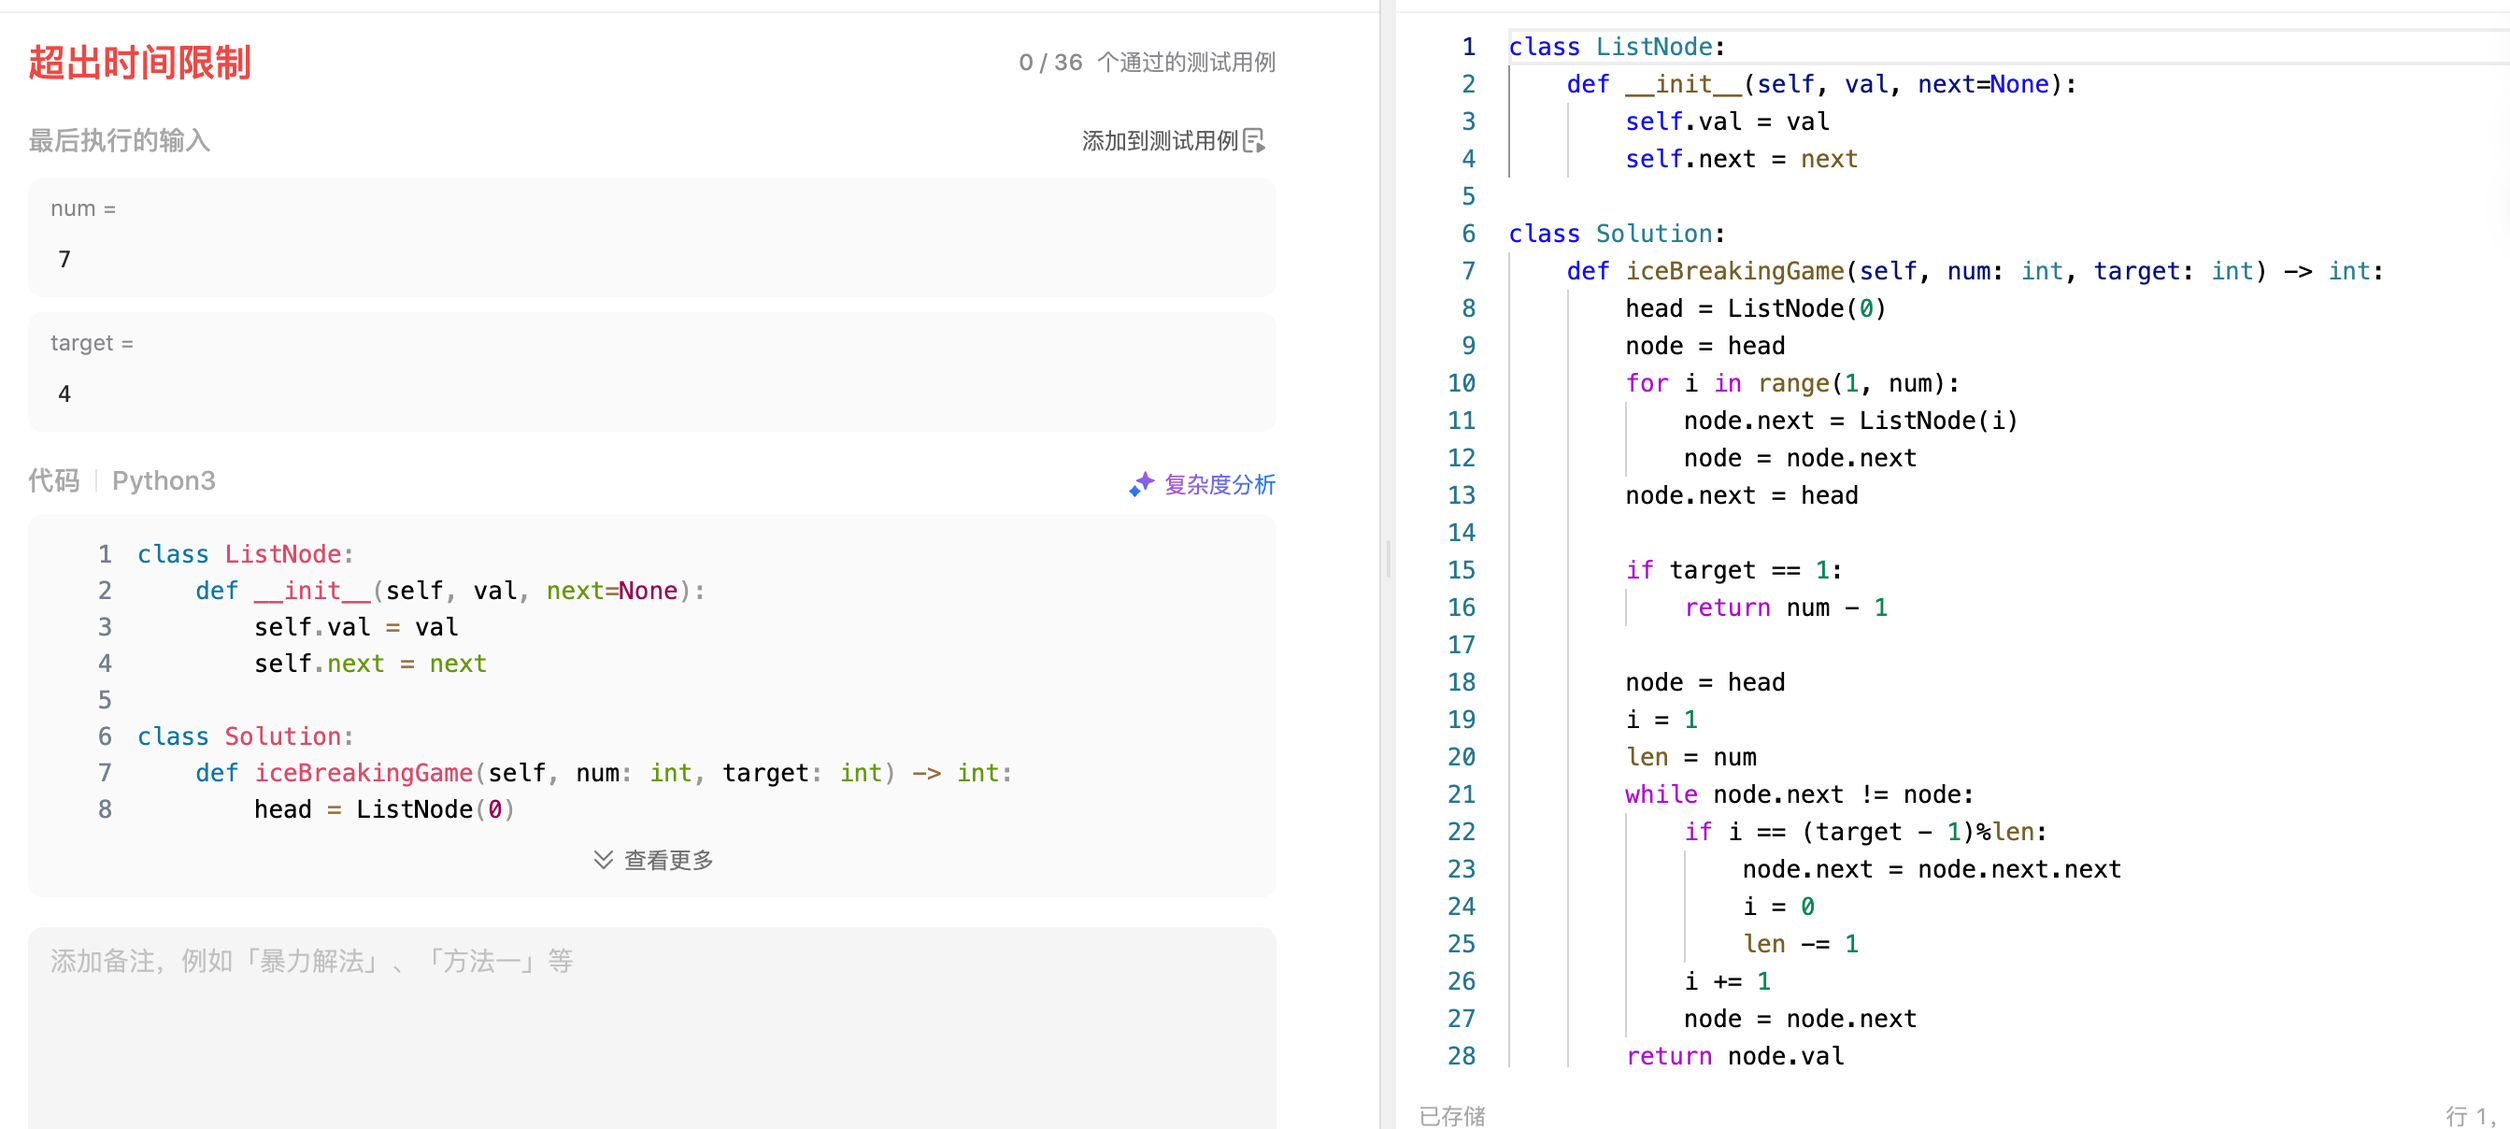
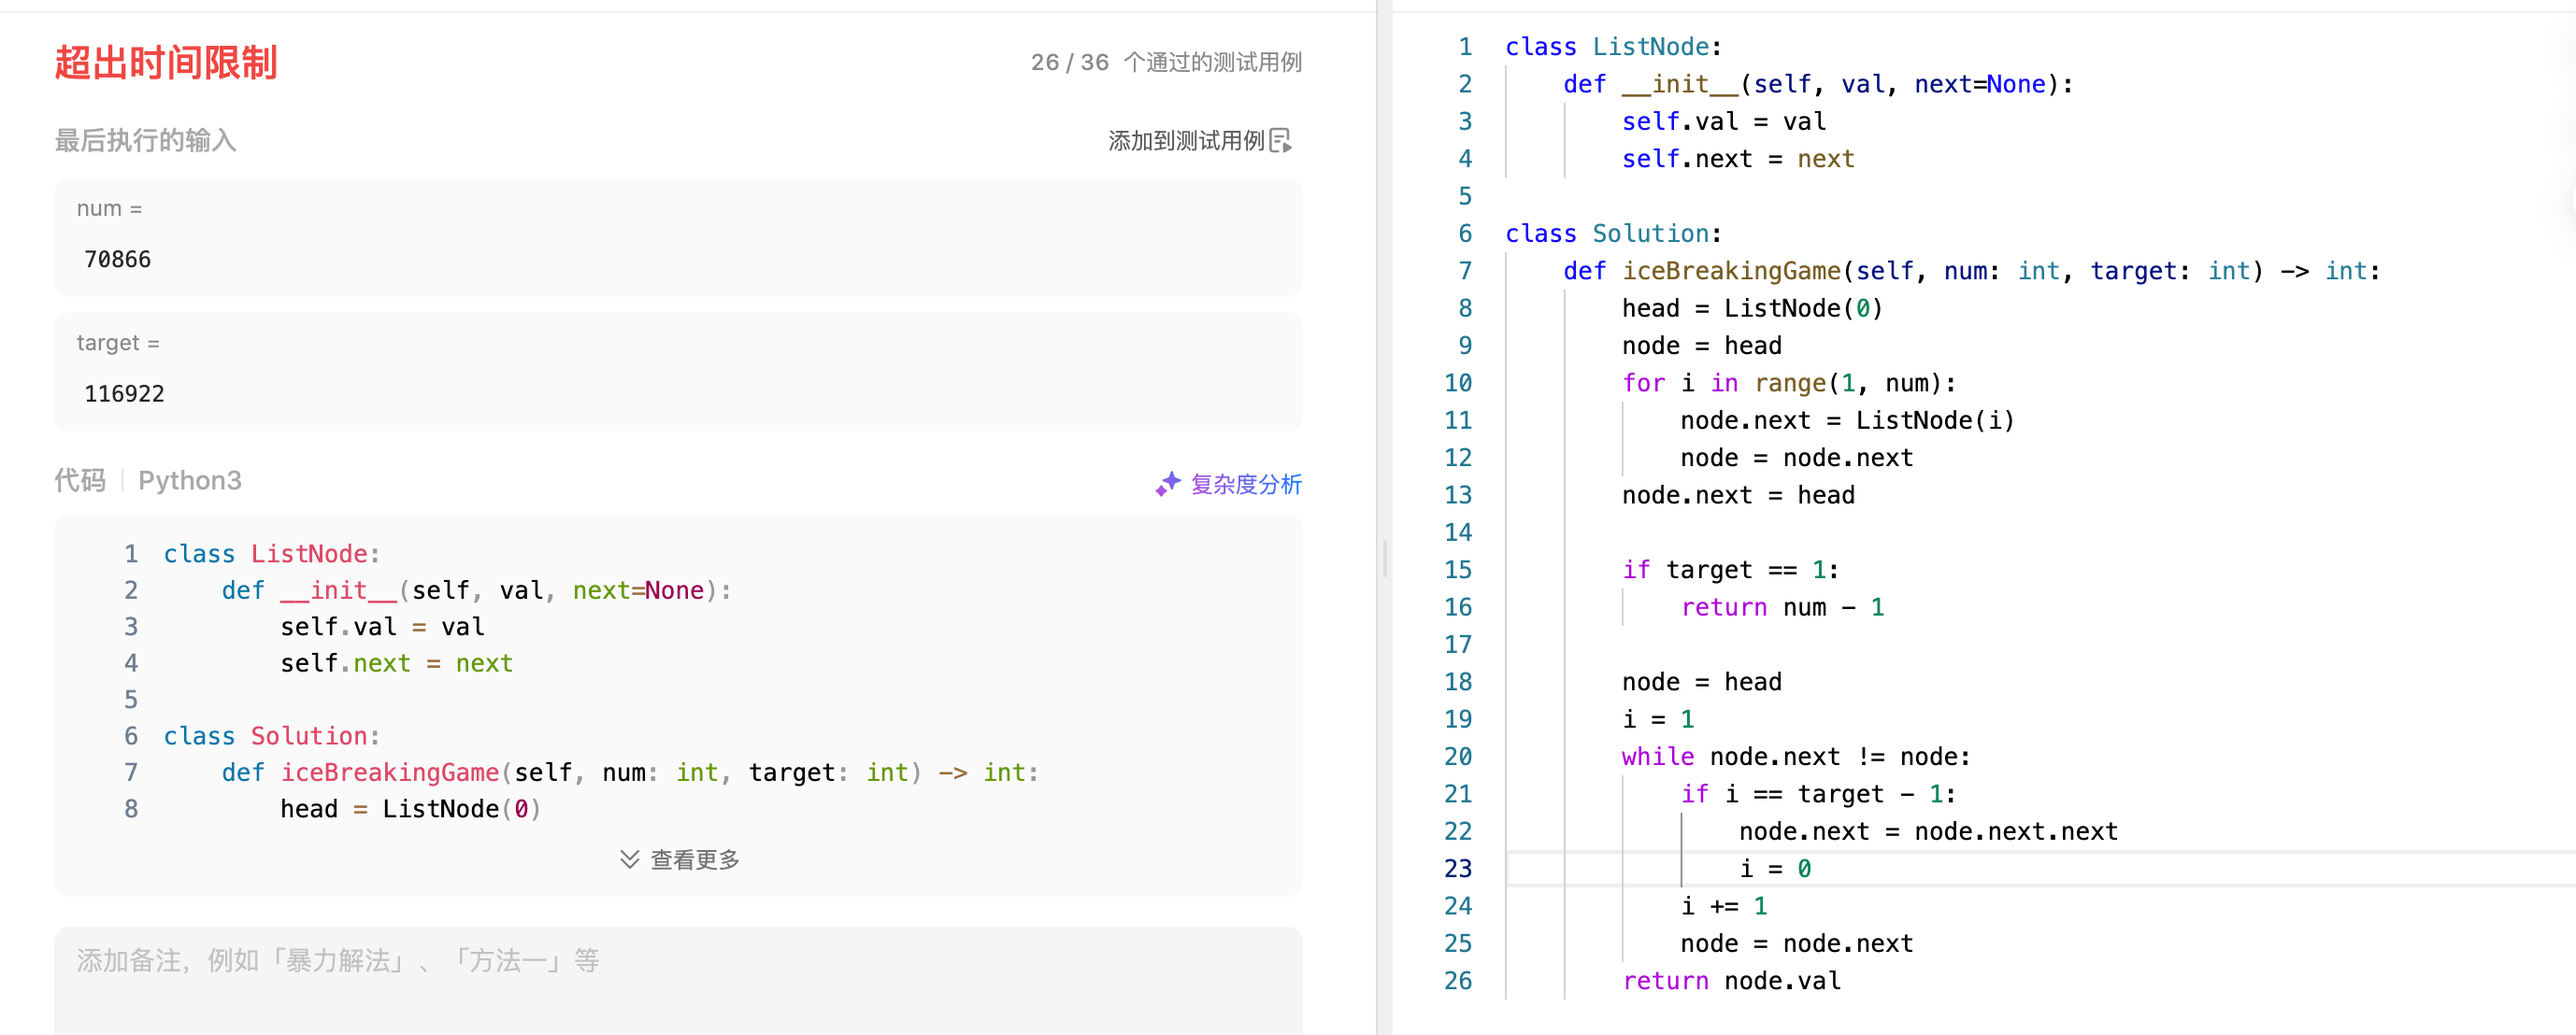
未解决部分完善

diff --git a/Josephus Problem/Josephus problem.md b/Josephus Problem/Josephus problem.md
@@ -103,7 +103,11 @@ class Solution:
 ### 待解决：  
 我想依据bigsai的思路通过取模计算简化m极大时循环链表的解法使其不超时，  
 ![图示3](图示3.png)
-然而我引入len变量之后反而m不够大也会超时，很可能是逻辑错误但我看不出来  
+然而我引入len变量之后反而m不够大也会超时  
+**逻辑错误死循环**  
+利用走值法我发现，  
+(target-1)%len这个值，target-1始终为固定值e.g.4-1=3，len开始为num e.g.len=num=7，但随着删除node减小会有一刻达到3，(target-1)%len即达到结果为0，而i在进入下一次循环之前已经通过i += 1变为1，所以if i == (target - 1)%len:再也不会满足不会再删除node，i不断增长，循环无法停止。  
+**求助解决方法**
 ![图示4](图示4.png)
 在修改之前引入len变量之前至少能跑过小数值情况，m,n很大时按预计因为O(n*m)的时间复杂度超时可以理解  
 ![图示5](图示5.png)
